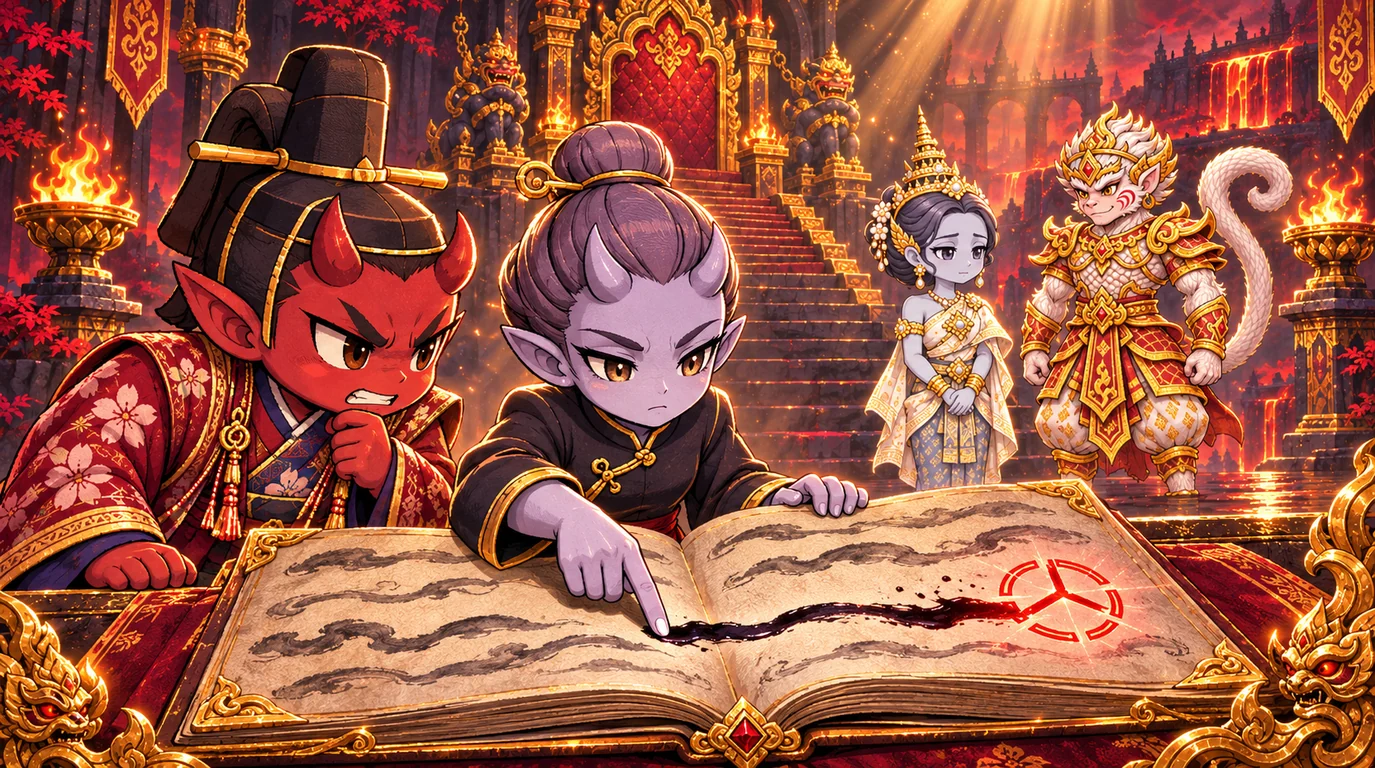
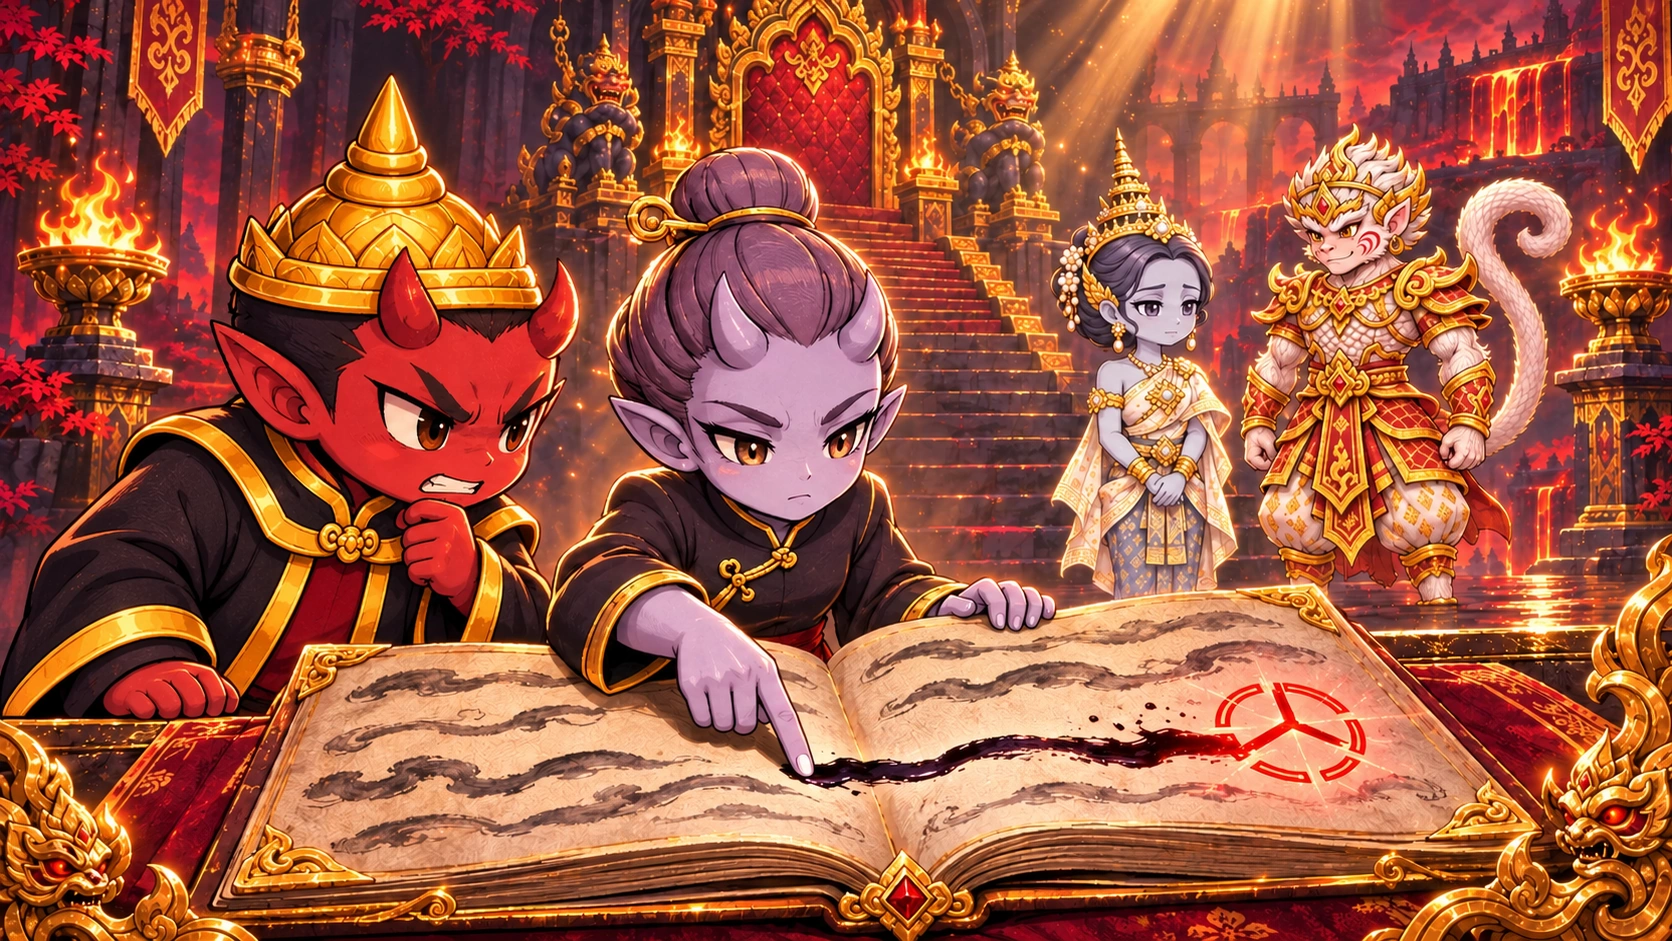
Codex 20261120T041828Z-6e184911: ใบงานวาด Codex — E2 ภาพโซน 1 ที่ค้าง (สีดา e2/e3 · ตะเกียง · ต้นทอง) · 2 [ready_for_review]

diff --git a/docs/art-reviews/2026-11-20-zone1-art/prompts.md b/docs/art-reviews/2026-11-20-zone1-art/prompts.md
@@ -1,0 +1,75 @@
+# บันทึก ImageGen ในตัว
+
+เรียงตามการเรียกจริง รวม 9 ครั้ง ภาพแต่ละรอบแนบด้วย `referenced_image_paths` ชื่อผลลัพธ์ด้านล่างใช้ระบุภาพอ้างอิงระหว่างรอบ ไม่ใช่ชื่อไฟล์ที่เกมโหลด ไฟล์ส่งออกสุดท้ายใช้ชื่อตาม README เท่านั้น
+
+## 1 — e2 รอบแรก
+
+ภาพแนบ: `img/z1-events/cut-hanuman-yields-th.webp`, `img/yama-animation-v1/th/sword-idle.webp` · พื้นหลังไม่โปร่งใส
+
+```text
+Use case: illustration-story. Redraw this Thai fantasy game cutscene, wide 1672x941 target, no text or watermarks. Image 1 is scene/style reference; image 2 is mandatory Zone 1 Yama costume reference (sprite sheet: use a single character, NOT sword pose). Keep the red-and-gold judicial throne hall of image 1, red/gold stairs and red throne, two gold fire braziers flanking hall, ceiling sunbeams, circular red-gold floor motif. Exactly four characters LEFT TO RIGHT: (1) Yama far left, RED skin, Thai pointed GOLD CROWN as sprite 2, dark red and BLACK robe with GOLD trim, NO floral kimono, NO tall black Japanese hat, no sakura; standing 3/4 facing right, calm slightly surprised, both hands holding a closed ledger against chest, NO sword. (2) Nira behind the ornate desk/podium, purple skin, small horns, purple hair bun, black robe with gold trim, hands clasped low. (3) Sita ahead of Nira one step forward, white-gold Thai dress, small gold crown, calm determined, her RIGHT hand lifted shoulder height palm facing Hanuman in a gentle STOP gesture. (4) Hanuman far RIGHT, white monkey fur, gold crown, red/gold Thai armor, curled WHITE tail; facing left toward Yama, head BOWED LOW, eyes CLOSED, ears DROOPED, palms pressed together at chest in a clearly apologetic respectful Thai wai. Hanuman has empty hands, absolutely no fighting stance. Match the reference's rich detailed polished chibi illustration, warm fire glow. Keep all four full figures visible and clearly separate. No other characters. No writing anywhere including ledger.
+```
+
+## 2 — e2 แก้แขนขวา/ระดับมือไหว้/เขานิรา
+
+ภาพแนบ: ผลรอบ 1, sprite ยามาโซน 1 · พื้นหลังไม่โปร่งใส
+
+```text
+Precise-object-edit of image 1. Keep composition, background, four character identities, costumes, colors, rendering and their positions exactly. Image 2 is mandatory Zone 1 Yama costume reference, keep Yama as currently correct. Make just these corrections: Sita must raise HER ANATOMICAL RIGHT HAND (the arm attached to her shoulder on the viewer's LEFT side) across her body toward Hanuman, palm outward at shoulder height; her anatomical LEFT arm (viewer right shoulder) should hang lowered gently. Make the hand gesture anatomically clear with correct shoulders/elbows: right arm crosses in front of her white-gold dress and extends toward Hanuman on image right, not from the image-right shoulder. Hanuman keeps low bowed head closed eyes drooping ears but LOWER his pressed-together palms to his CHEST / sternum, away from mouth, clear humble wai. Give Nira two subtle small purple horn tips visible beside the hairline. Keep everything else exactly unchanged. No lettering or watermarks. Wide 1672x941.
+```
+
+## 3 — e3 เปลี่ยนชุดยามา
+
+ภาพแนบ: `img/z1-events/cut-sita-phantom-ledger-th.webp`, sprite ยามาโซน 1 · พื้นหลังไม่โปร่งใส
+
+```text
+Use case: precise-object-edit. Edit IMAGE 1 with one localized change only: replace Yama's COSTUME in the bottom-left corner using the Zone 1 Yama sprite reference IMAGE 2. Keep his original red face, small horns, expression, exact body pose, position and size: hand against chin, furrowed worried brows, slightly clenched visible teeth, leaning down looking at the ink trail, other hand on desk. Replace the tall black Japanese hat with a pointed THAI GOLD CROWN from sprite reference. Replace floral sakura kimono with dark RED and BLACK robe with bold GOLD trim matching sprite 2. No flowers on Yama, no kimono, no sword. Every other object and character must remain EXACTLY the same as image 1: enormous open ledger on podium occupies foreground, same black winding ink line ending at the same glowing red circular seal, Nira pointing at precisely the same ink trail with same pose/finger/face/purple bun and horns, Sita and Hanuman standing in background at the same location, throne/stairs/fire/light all preserved. This is a surgical wardrobe correction, NOT a new composition. NO letters, numbers, legible writing, text or watermark anywhere; preserve abstract ink marks. Wide illustration output 1672x941.
+```
+
+## 4 — ฉากตะเกียง
+
+ภาพแนบ: `img/z1-events/cut-sita-lamp-th.webp`, ผล e2 รอบ 2, sprite ยามาโซน 1 · พื้นหลังไม่โปร่งใส
+
+```text
+Use case: illustration-story. Create replacement Thai fantasy game cutscene 1672x941 landscape. Reference image 1 is original scene, image 2 established corrected hall/character design, image 3 mandatory Zone 1 Yama costume reference. Use the SAME red/gold judgment hall, stairway, red throne, gold fire braziers left and right, ceiling beams, glossy circular red-gold floor design. Four characters only, NO RAMA. On the LEFT stand Yama and Nira watching respectfully with calm reverence. Yama RED skin, small red horns, pointed THAI GOLD crown exactly sprite 3, BLACK and dark RED robe with gold trim, hands holding closed ledger near chest. NO sakura or kimono or black Japanese hat, no sword. Nira purple skin small horns purple hair bun black-gold outfit hands respectfully clasped. At center-right Sita in white-gold Thai dress and small gold crown, standing and extending BOTH hands forward supporting a SMALL GOLD THAI oil lamp: shallow lotus-petal pedestal bowl, single CENTRAL wick, delicate curved carrying handle, no spout. On far right Hanuman, WHITE fur, gold crown red-gold Thai armor curled white tail, KNEELING ON ONE KNEE facing left toward Sita, palms pressed together ABOVE THE LAMP'S CENTRAL WICK. A thin graceful GOLDEN FLAME flows DOWNWARD from between his pressed palms directly into the wick. The flame and lamp are focal point; maintain clear anatomy, both hands of Sita visible supporting bowl, Hanuman hands above wick without touching Sita's hands. Rich polished chibi fantasy illustration matching references. No Aladdin lamp, no spout, no smoke jet, no extra characters. No lettering, no text, no watermarks.
+```
+
+## 5 — ไอคอนตะเกียงดับ
+
+ภาพแนบ: ผลฉากตะเกียงรอบ 4, `img/ui/icon-defend-shield.webp` · โปร่งใส
+
+```text
+Use case: stylized-concept. Single game inventory ICON, target square 512x512 RGBA true TRANSPARENT background. Reference 1: extract/reinterpret ONLY the small gold THAI lotus pedestal oil lamp held by Sita in the scene, no characters or scene. Reference 2: match crisp gold fantasy UI material rendering and readable silhouette. The lamp is a small shallow circular gold oil bowl on an ornate layered LOTUS PETAL pedestal, with a slender semicircular CURVED CARRYING HANDLE arching above, attached symmetrically to the two sides of bowl. A single small dark unlit wick at the CENTER of the bowl. Version UNLIT: NO FLAME at all, no glow, no smoke. No spout, not an Aladdin/genie lamp, no teapot shape. Front three-quarter view, fully contained centered object, comfortable transparent padding, polished gold and amber, clean readable silhouette, no floor, no shadow backdrop. No letters, text, runes, watermark, borders or extra objects. Real transparent alpha around object and inside handle opening.
+```
+
+## 6 — ไอคอนตะเกียงติด
+
+ภาพแนบ: ผลไอคอนดับรอบ 5 · โปร่งใส
+
+```text
+Use case: precise-object-edit. Create LIT variant of this exact gold Thai lotus-pedestal oil lamp inventory icon. Keep the lamp design, scale, silhouette, handle, pedestal, bowl, framing and transparent background exactly unchanged. Add just ONE small steady upright GOLDEN FLAME on the CENTRAL wick inside the curved handle arch. Flame clean teardrop golden yellow with a pale warm core, subtle local light on bowl. NO smoke, NO stream or jet, no genies, no other objects, no text or watermark. Transparent alpha everywhere outside lamp/flame and inside handle arch. Square 512x512 target RGBA.
+```
+
+## 7 — ปุ่มเรียก
+
+ภาพแนบ: `img/ui/power-heal-lotus.webp`, `img/ui/icon-defend-shield.webp`, ผลไอคอนติดรอบ 6 · โปร่งใส
+
+```text
+Use case: stylized-concept. Create one square 512x512 RGBA game COMMAND icon, true transparent background outside a CIRCULAR FRAME. Reference 1 is an existing circular command icon from the game: use same straightforward centered composition, clear single readable emblem, softly shaded muted green circular field, generous padding, no words. Reference 2 supports existing game's gold UI metal finish. Reference 3 shows the actual gold Thai lamp design to depict. Inside a simple polished GOLD CIRCULAR RIM with muted dark green circular field: an OPEN UPWARD FACING PALM at bottom, above palm levitates the SMALL GOLD THAI LOTUS PEDESTAL OIL LAMP with curved arch HANDLE and ONE steady GOLD FLAME on central wick. Clearly visible small air gap between palm and lamp to communicate summoning. Reduce tiny ornament so symbol reads at game button size. Lamp must have lotus bowl and central wick, NO pouring spout, no genie/Aladdin teapot, NO smoke or smoke trail, no extra hands. Elegant warm ivory hand; gold lamp, gold frame. Fully contained circle with transparent corners, crisp edges. No text, no letters, numbers, runes, watermark or label.
+```
+
+## 8 — ต้นทอง
+
+ภาพแนบ: `img/theme-v4/town-tree-th-v1.webp`, `img/map-zone1/v7r/sprites/pilot-gold-tree-00.webp` · โปร่งใส
+
+```text
+Use case: precise-object-edit. Create GOLDEN version of the Thai BANYAN TREE game scenery sprite in IMAGE 1, target 1199x1312 RGBA true transparent. Image 1 is strict geometry/camera/silhouette reference. Image 2 is supporting warm canopy/tree palette used in the same map. Keep the SAME massive banyan tree, same front three-quarter view, broad triangular tiered canopy, same twisted multi-trunk structure and thick exposed roots at bottom, same many long HANGING AERIAL ROOTS descending from branches on left, middle and right, same framing and proportion filling the portrait frame. Change foliage color from green to luminous rich GOLD and AMBER YELLOW, golden ochre shadows, warm honey leaves and pale gold sunlit tips, abundant dense clearly shaped gold leaves on all canopy tiers, matching a Thai heavenly gate district. Keep bark natural warm brown with golden warm light. Do not add any scenery, people, buildings, props or base platform. NO SNOW, no white coating, no frost, no winter, no white glitter piles. No letters, symbols, text or watermark. Preserve generous transparent holes between aerial roots/branches and fully transparent outside tree. Detailed painterly game cutout matching image 1's established rendering. Do not substitute a bonsai or a different tree shape. Entire trunk roots and canopy contained within same frame.
+```
+
+## 9 — e2 แก้หูตก (ฉบับส่งออก)
+
+หลังทำรายการ 1–5 ครบแล้ว ทบทวนภาพและแก้รายละเอียดหูหนุมานใน e2 โดยแนบผล e2 รอบ 2 และ sprite ยามาโซน 1 · พื้นหลังไม่โปร่งใส
+
+```text
+Use case: precise-object-edit. IMAGE 1 is the edit target. IMAGE 2 is mandatory Zone 1 Yama reference; keep Yama exactly as in image 1, no costume changes. Change ONLY Hanuman's visible EAR at image right: his monkey ear currently points upward; make it visibly DROOP DOWNWARD, relaxed folded down alongside his cheek, the tip hanging down, to reinforce humble apology. Keep Hanuman's gold crown, white fur, closed eyes, deeply bowed head and chest-level pressed palms EXACTLY unchanged. Keep every other detail including Yama holding ledger, Nira horns and clasped hands, Sita's RIGHT arm crossing body with palm-out STOP gesture, all positions, poses, hall, throne, fire, floor, lighting and framing unchanged. No writing, text, letters or watermark. Output same wide 1672x941.
+```

diff --git a/docs/art-reviews/2026-11-20-zone1-art/README.md b/docs/art-reviews/2026-11-20-zone1-art/README.md
@@ -1,0 +1,64 @@
+# ภาพโซน 1 — สีดา ตะเกียง และต้นทอง
+
+วันที่ 20 พฤศจิกายน 2569 · งานวาด AVEGEE
+
+ส่งภาพ 7 ไฟล์ตามพาธในใบงาน ใช้ **ImageGen ในตัว 9 ครั้ง** ตามลำดับงาน 1 → 5 รวมรอบแก้ e2 สองครั้ง ทุกครั้งแนบภาพอ้างอิง และทุกครั้งที่มียามาแนบ `img/yama-animation-v1/th/sword-idle.webp` ด้วย เริ่มตรวจงานประมาณ 11:18 น. และตรวจส่งออกเสร็จประมาณ 11:35 น. เวลาไทย ภายในงบ 25 นาที
+
+## ไฟล์ที่ส่ง
+
+| พาธในเกม | ขนาดส่งออก | โหมด | สิ่งที่เปลี่ยน |
+| --- | --- | --- | --- |
+| `img/z1-events/cut-hanuman-yields-th.webp` | 1672×941 | RGB | เรียงยามา–นิรา–สีดา–หนุมาน สีดายกมือขวาห้าม หนุมานก้มไหว้ระดับอก หลับตา หูตก มือเปล่า |
+| `img/z1-events/cut-sita-phantom-ledger-th.webp` | 1672×941 | RGB | แก้ยามามุมซ้ายล่างเป็นชุดโซน 1 คงท่าเท้าคาง กัดฟัน มองรอยหมึก และองค์ประกอบแฟ้ม–นิราชี้–ตราแดง–ผู้ยืนด้านหลัง |
+| `img/z1-events/cut-sita-lamp-th.webp` | 1672×941 | RGB | สีดาประคองประทีป หนุมานคุกเข่าข้างหนึ่ง ประนมมือเหนือไส้ เปลวทองเชื่อมลงตะเกียง ยามาและนิราอยู่ซ้าย ไม่มีพระราม |
+| `img/ui/item-magic-lamp.webp` | 512×512 | RGBA | ประทีปทองฐานกลีบบัว หูหิ้วโค้ง ไส้กลาง รุ่นดับ |
+| `img/ui/item-magic-lamp-lit.webp` | 512×512 | RGBA | ประทีปแบบเดียวกัน เพิ่มเปลวทองนิ่ง ไม่มีควัน |
+| `img/ui/cmd-summon.webp` | 512×512 | RGBA | ตะเกียงติดไฟลอยเหนือฝ่ามือเปิด กรอบวงกลมทอง พื้นวงกลมเขียว มุมภาพโปร่งใส |
+| `img/theme-v4/town-tree-gold-th-v1.webp` | 1199×1312 | RGBA | ต้นไทรใบทอง/เหลืองอำพัน รากห้อย กรอบและมุมอิงต้นไทรเดิม ไม่มีหิมะ |
+
+สำเนาภาพส่งออกอยู่ใน `img/` ใต้โฟลเดอร์รีวิวนี้ แยกพาธเหมือนในเกม ตรวจแล้วว่าสำเนาทั้ง 7 ไฟล์ตรงกันทุกไบต์กับไฟล์ใช้งาน
+
+## ภาพเดิมและภาพเทียบ
+
+- เปิด [contact-sheet.jpg](contact-sheet.jpg) เพื่อเทียบซ้ายเดิม / ขวาใหม่ พื้นตารางใช้แสดงความโปร่งใส ไม่ได้ฝังอยู่ในไฟล์ WebP
+- `originals/` เก็บภาพฉากเดิมทั้ง 3 ไฟล์และต้นไทรอ้างอิงก่อนทำงาน
+- ภาพฉากเดิมมีขนาด **1375×768** จึงส่งออกใหม่ตามใบงานเป็น **1672×941**
+- ใน checkout เริ่มต้น **ไม่มี** `item-magic-lamp.webp`, `item-magic-lamp-lit.webp`, `cmd-summon.webp` และ `town-tree-gold-th-v1.webp` ที่พาธกำหนด จึงเพิ่มไฟล์ชื่อเหล่านี้ตามใบงาน ไม่ได้เปลี่ยนไปใช้ชื่ออื่น ภาพเทียบระบุส่วนที่ไม่มีไฟล์เดิมอย่างชัดเจน แถวต้นทองใช้ต้นไทรเขียวเป็น **ภาพอ้างอิง** ไม่อ้างว่าเป็นต้นทองเดิม
+
+## ภาพอ้างอิงและพรอมป์ต์
+
+ดูคำสั่งที่ส่ง ImageGen และรายการภาพแนบแต่ละรอบใน [prompts.md](prompts.md)
+
+- e2: ภาพฉากเดิม + sprite ยามาโซน 1; รอบแก้ใช้ภาพผลลัพธ์ก่อนหน้า + sprite เดิม
+- e3: ภาพแฟ้มเดิม + sprite ยามาโซน 1
+- ฉากตะเกียง: ภาพเดิม + e2 ที่แก้มือ/ท่าไหว้แล้ว + sprite ยามาโซน 1
+- ไอคอนดับ: ฉากตะเกียงใหม่ + `img/ui/icon-defend-shield.webp`
+- ไอคอนติด: ไอคอนดับใหม่
+- ปุ่มเรียก: `img/ui/power-heal-lotus.webp` + `img/ui/icon-defend-shield.webp` + ไอคอนติดใหม่
+- ต้นทอง: `img/theme-v4/town-tree-th-v1.webp` + `img/map-zone1/v7r/sprites/pilot-gold-tree-00.webp`
+
+ใช้ Pillow เฉพาะแปลงไฟล์/ปรับขนาดส่งออก เก็บ alpha จาก ImageGen และจัด contact sheet ภาพฉากบันทึก WebP quality 95 ส่วนภาพโปร่งใสบันทึก WebP แบบ lossless ไม่ได้ใช้เครื่องมือวาดอื่นหรือ API ภายนอก
+
+## ผลตรวจไฟล์และข้อจำกัด
+
+ผลตัวเลขและ SHA-256 ของภาพทั้ง 7 อยู่ใน [validation.json](validation.json)
+
+1. เปิดและถอดรหัสภาพทั้ง 7 ด้วย Pillow ได้ เป็น WebP และมีขนาดตรงตามตาราง
+2. ไอคอน 3 ไฟล์และต้นทองเป็น RGBA ทุกไฟล์มี alpha ต่ำสุด 0 และสูงสุด 255 และมีพิกเซลโปร่งใสจริง
+3. สำเนาไฟล์ส่งออกทั้ง 7 ตรงกับไฟล์ในเกมทุกไบต์
+4. เปิดดูภาพที่สร้างและ contact sheet แล้ว: ไม่พบตัวอักษรที่อ่านได้ในภาพส่งออก ยามาทั้งสามฉากสวมมงกุฎทองไทยและชุดดำ/แดงขลิบทอง ไม่มีชุดกิโมโนซากุระ
+5. ตรวจ `git diff --check` แล้วไม่พบปัญหา whitespace ตรวจสถานะ Git แล้วมีเฉพาะไฟล์ภาพตามใบงานและโฟลเดอร์รีวิวนี้
+
+### ตรวจตนเองตามเกณฑ์รับงาน
+
+| เกณฑ์ | หลักฐานและผลตรวจตนเอง |
+| --- | --- |
+| 1. ชื่อ/ขนาดตรง, ข้อ 4–5 RGBA โปร่งใส, ไม่มีตัวอักษร | ขนาด/โหมด/alpha ตรวจด้วย Pillow; ชื่ออยู่ในตารางและ validation.json; ไม่พบตัวอักษรจากการเปิดดูภาพ |
+| 2. ยามาชุดโซน 1 ทุกภาพ | ตรวจทั้ง e2, e3, ฉากตะเกียงกับ sprite อ้างอิง: ผิวแดง มงกุฎทองไทย ชุดดำ/แดงขลิบทอง; e2/ตะเกียงถือสมุด ส่วน e3 คงท่าเท้าคางตามข้อกำหนดเฉพาะ |
+| 3. contact sheet เดิม–ใหม่ และ README ไทย | มี contact-sheet.jpg และ README นี้; ช่องที่ไม่มีต้นฉบับระบุว่าไม่มี ไม่ทำภาพเดิมขึ้นเอง |
+
+ภาพ e3 คงตำแหน่งและองค์ประกอบจากการเทียบด้วยตา ไม่ได้รับรองว่าพิกเซลนอกยามาเหมือนต้นฉบับทุกจุด เพราะเป็นการแก้ด้วย ImageGen และปรับขนาดตามใบงาน
+
+ไม่มีภาพที่ยังไม่ได้ทำในรายการนี้ ยังไม่ได้เปิดเกมเพื่อตรวจการจัดวาง/ขนาดปุ่มจริง และไม่ได้รันชุดทดสอบโค้ด เนื่องจากเป็นงานวาดล้วน ผลตรวจนี้เป็นการตรวจไฟล์ภาพ ไม่ใช่ผล QA ในเกม การเชื่อมใช้งาน 4 พาธที่ไม่มีอยู่ก่อนต้องให้ผู้ดูแลตรวจในเกมต่อ โดยรอบนี้ไม่แก้โค้ด
+
+ไม่ได้แก้ `src/`, `tests/`, hooks, `status.json` หรือ `worklog.json` ไม่สร้างหรือสลับ worktree/branch ไม่ commit/push/merge และไม่ deploy
